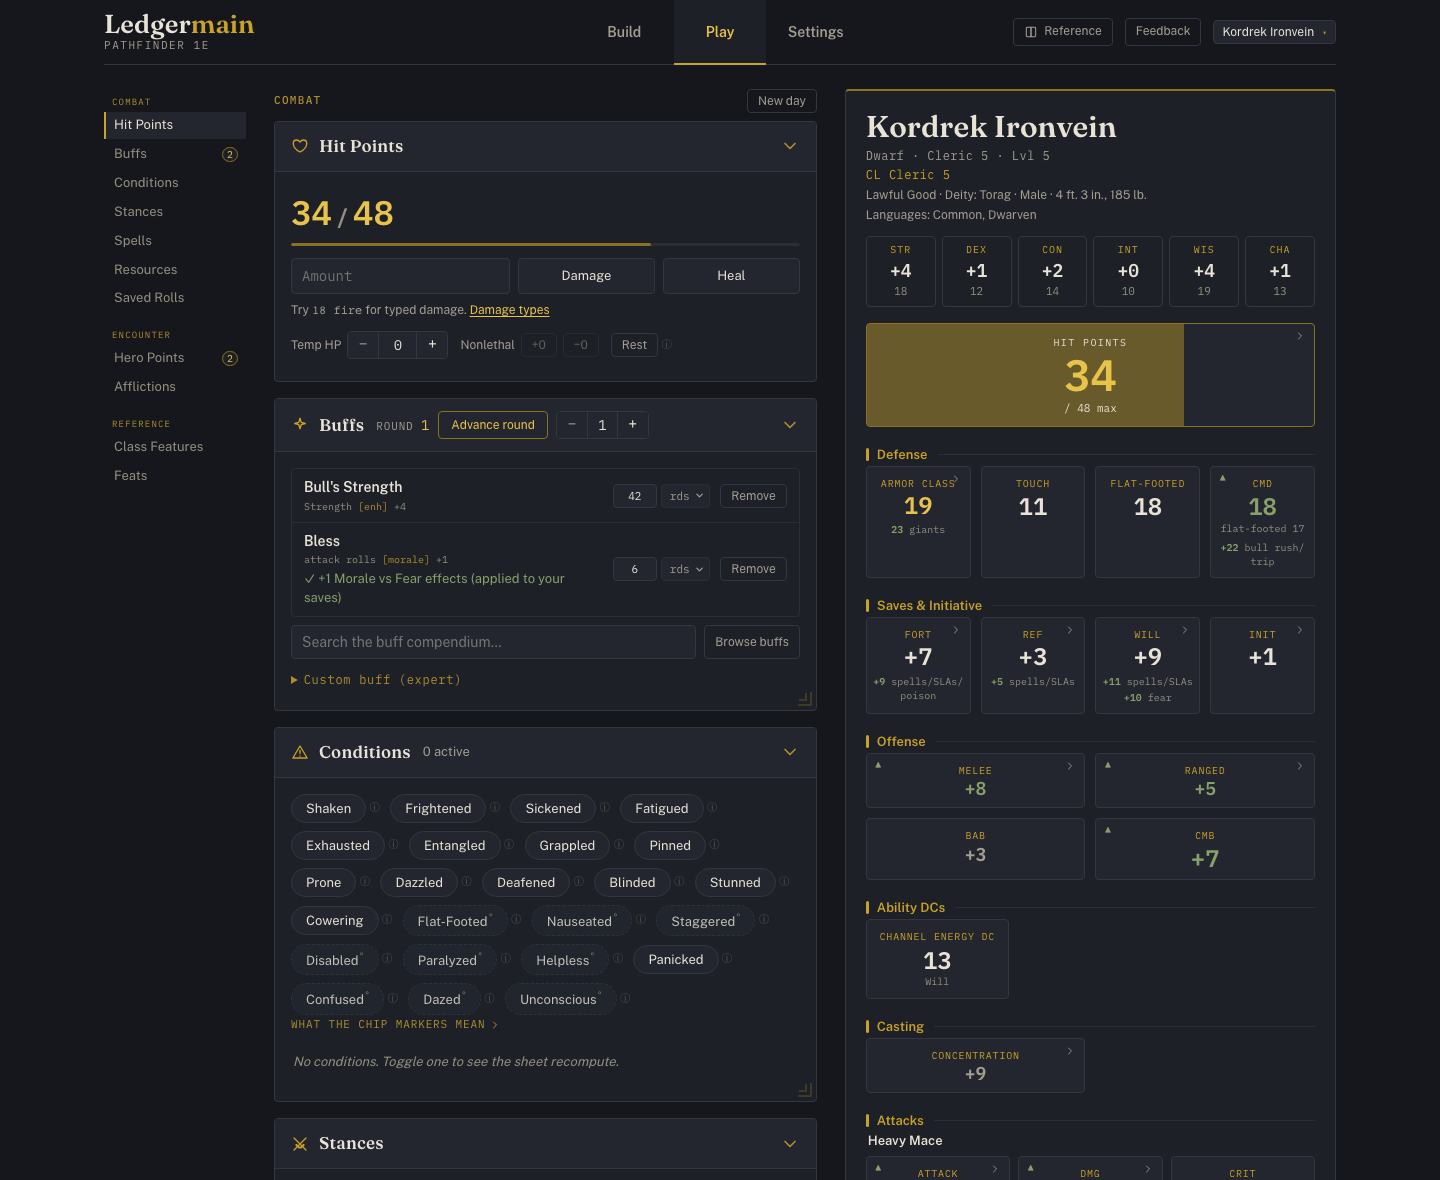
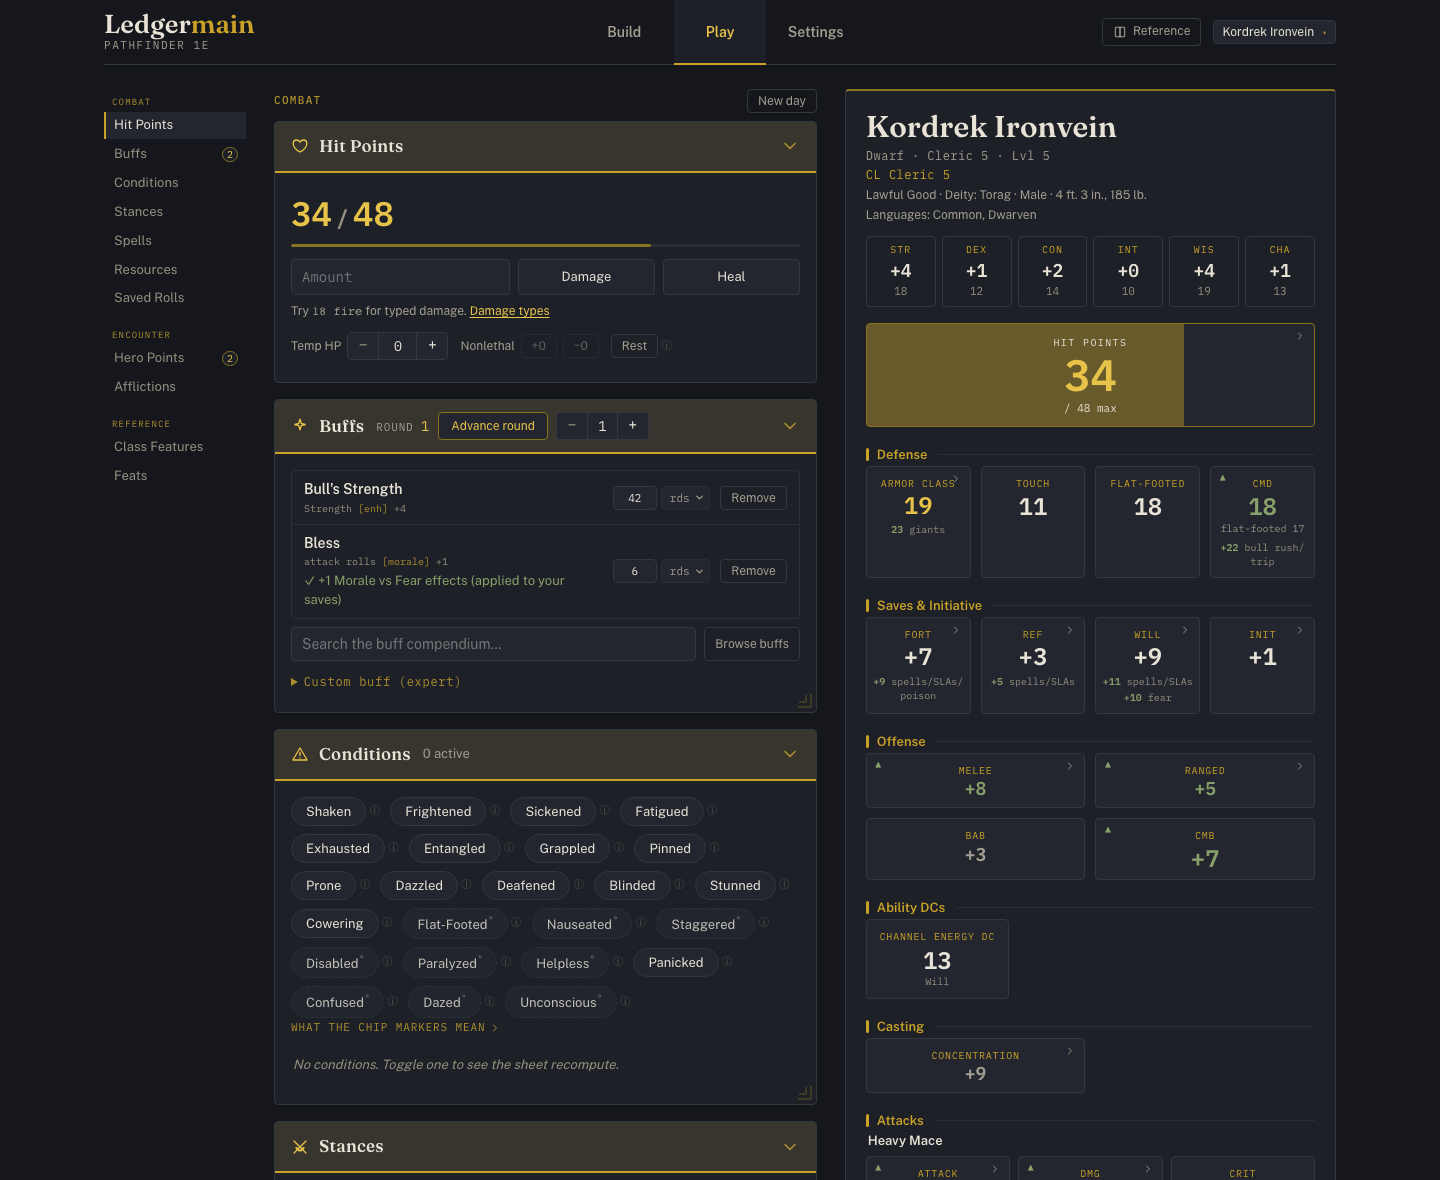
Restore gold panel headings in the workbench
Bring back the gold-tinted Build and Play headers without changing the sidebar gauge.
Keep the masthead feedback control gated on API and Turnstile configuration; drop the unneeded local GitHub fallback.

diff --git a/apps/web/src/styles.css b/apps/web/src/styles.css
@@ -409,7 +409,6 @@ a {
   .sync-signout,
   .sync-status,
   .ref-link,
-  .feedback-open,
   .action-error {
     min-height: var(--tap-min);
   }
@@ -569,8 +568,8 @@ a {
   justify-content: space-between;
   gap: 12px;
   padding: 12px 16px;
-  background: var(--surface-2);
-  border-bottom: 1px solid var(--line);
+  background: color-mix(in oklab, var(--gold) 18%, var(--surface));
+  border-bottom: 2px solid var(--gold);
 }
 
 .panel > header h2 {
@@ -595,7 +594,21 @@ a {
 .panel-icon svg {
   width: 1.125rem;
   height: 1.125rem;
-  color: var(--gold);
+  color: var(--gold-2);
+}
+
+/* Header hints and outlines need more contrast against the gold band. */
+.panel > header .warn-under {
+  color: var(--muted);
+}
+
+.panel > header .warn-over,
+.panel > header .budge.over b {
+  color: #e59484;
+}
+
+.panel > header .btn-ghost {
+  border-color: var(--gold-dim-ink);
 }
 
 .panel .body {
@@ -8320,9 +8333,6 @@ input[type="text"].saved-roll-name:focus {
 /* Mirrors the preview-notice modal's backdrop/surface vocabulary so the
    feedback dialog reads as a sibling of the app's other overlays. */
 .feedback-open {
-  display: inline-flex;
-  align-items: center;
-  text-decoration: none;
   white-space: nowrap;
 }
 

diff --git a/apps/web/src/components/FeedbackButton.tsx b/apps/web/src/components/FeedbackButton.tsx
@@ -23,8 +23,7 @@ type SubmitState =
   | { kind: "done"; url?: string };
 
 /**
- * Global "Feedback" control. Use the in-app form when the API and Turnstile
- * are configured; otherwise send players to the public issue tracker.
+ * Masthead feedback control, shown only when the API and Turnstile are configured.
  */
 export function FeedbackButton({ mode, doc }: { mode: string; doc?: CharacterDoc }) {
   const [open, setOpen] = useState(false);
@@ -42,19 +41,7 @@ export function FeedbackButton({ mode, doc }: { mode: string; doc?: CharacterDoc
     }
   }, [pendingPrefill]);
 
-  if (!feedbackEnabled()) {
-    return (
-      <a
-        className="btn-ghost feedback-open"
-        href="https://github.com/bjschafer/ledgermain/issues/new"
-        target="_blank"
-        rel="noreferrer"
-        title="Send feedback on GitHub"
-      >
-        Feedback
-      </a>
-    );
-  }
+  if (!feedbackEnabled()) return null;
 
   return (
     <>

diff --git a/apps/web/src/model/changelogEntries.ts b/apps/web/src/model/changelogEntries.ts
@@ -51,8 +51,8 @@ export const CHANGELOG: readonly ChangelogEntry[] = [
   {
     id: "2026-11-21-sheet-at-a-glance",
     date: "2026-11-21",
-    title: "See your HP at a glance",
-    note: "The side sheet has a full-size HP bar again, with gold headings and labeled stat boxes to help you find the right number. Feedback stays in the top bar, with a GitHub link when the in-app form is unavailable.",
+    title: "Find your stats at a glance",
+    note: "Gold panel headers make it easier to spot sections in Build and Play. The side sheet has a full-size HP bar, gold headings, and labeled stat boxes to help you find the right number.",
   },
   {
     id: "2026-11-21-ruled-sheet",

diff --git a/apps/web/src/feedback/config.ts b/apps/web/src/feedback/config.ts
@@ -5,8 +5,8 @@
  * Feedback needs two things wired up: the persistence API (which hosts the
  * `POST /api/feedback` endpoint) and a Cloudflare Turnstile **sitekey** (the
  * public half of the CAPTCHA; the secret half lives only in the Worker). When
- * either is absent, don't mount a form that can't submit. The masthead links
- * to GitHub instead, and contextual in-app reports stay unavailable.
+ * either is absent, hide the feedback controls rather than offer a form
+ * that can't produce a verified submission.
  */
 import { apiBaseUrl } from "../sync/config.js";
 

diff --git a/apps/api/README.md b/apps/api/README.md
@@ -235,9 +235,8 @@ Defense in depth for the one public, unauthenticated write:
   unclosable by its own content.
 
 Until configured the endpoint fails closed (verification/issue creation error).
-The masthead opens the in-app form only when both `VITE_API_URL` **and**
-`VITE_TURNSTILE_SITEKEY` are set at build time. Otherwise Feedback links directly
-to GitHub, where the player needs an account to file an issue.
+The web app hides the feedback button unless both `VITE_API_URL` **and**
+`VITE_TURNSTILE_SITEKEY` are set at build time.
 
 ### One-time owner setup
 
@@ -246,8 +245,8 @@ to GitHub, where the player needs an account to file an issue.
      let anyone serve a page from their own machine under this sitekey, solve
      the challenge there, and produce a token whose reported hostname the Worker
      can't distinguish from a real one — which is the whole basis of the
-     endpoint's "came from our app" check. Local dev leaves
-     `VITE_TURNSTILE_SITEKEY` unset and uses the GitHub link.
+     endpoint's "came from our app" check. Local dev normally leaves
+     `VITE_TURNSTILE_SITEKEY` unset, so the feedback button is hidden.
    - Copy the **Site Key** → set it as the web build var `VITE_TURNSTILE_SITEKEY`
      (same place as `VITE_API_URL`: Workers Builds → the `ledgermain` Worker →
      Settings → Build → Build variables). The site key is public.

diff --git a/apps/web/DESIGN_NOTES.md b/apps/web/DESIGN_NOTES.md
@@ -49,10 +49,10 @@ Give successive attack bonuses room to read as a sequence.
 
 ## Restraint
 
-Gold marks the current place, sheet labels, key totals, and controls that
-affect play. Keep routine panel headers outside the sheet and secondary actions
-neutral. Use sentence case and the body face for navigation, controls, and
-sheet headings; reserve small mono labels for the individual stat keys.
+Use gold-tinted panel headers with an ink title and a gold bottom rule so
+players can find sections in the main column. Keep secondary actions neutral.
+Use sentence case and the body face for navigation, controls, and sheet
+headings; reserve small mono labels for the individual stat keys.
 
 Center primary navigation between the Ledgermain wordmark and utilities on
 wide screens. On narrow screens, give it its own row. The reference site
